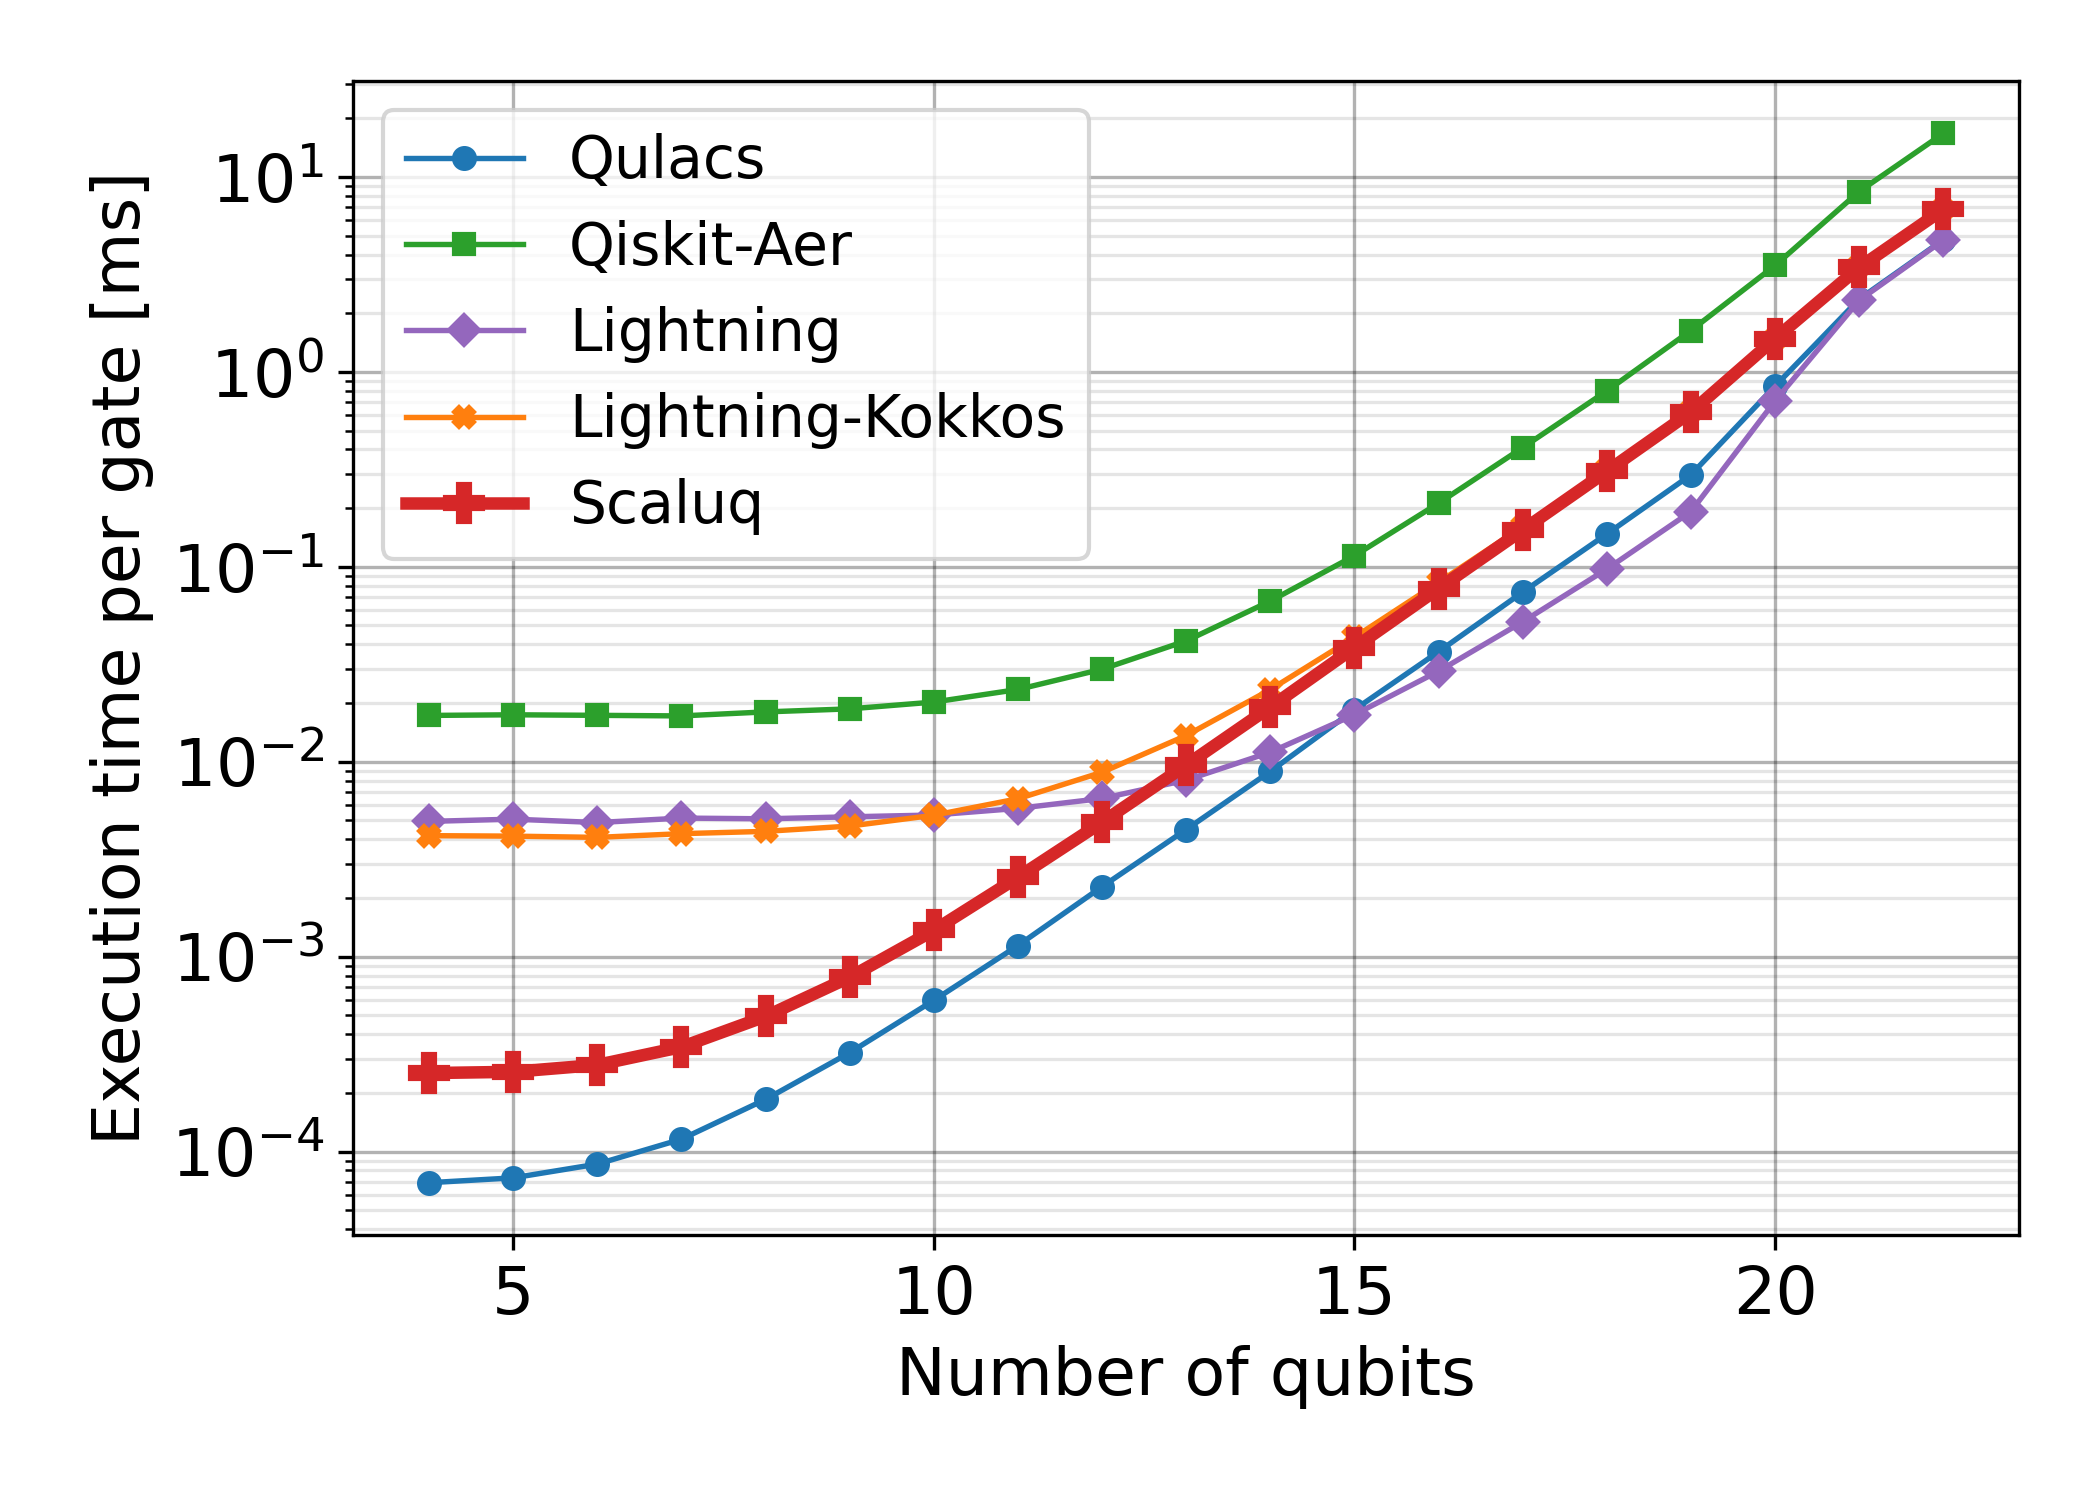
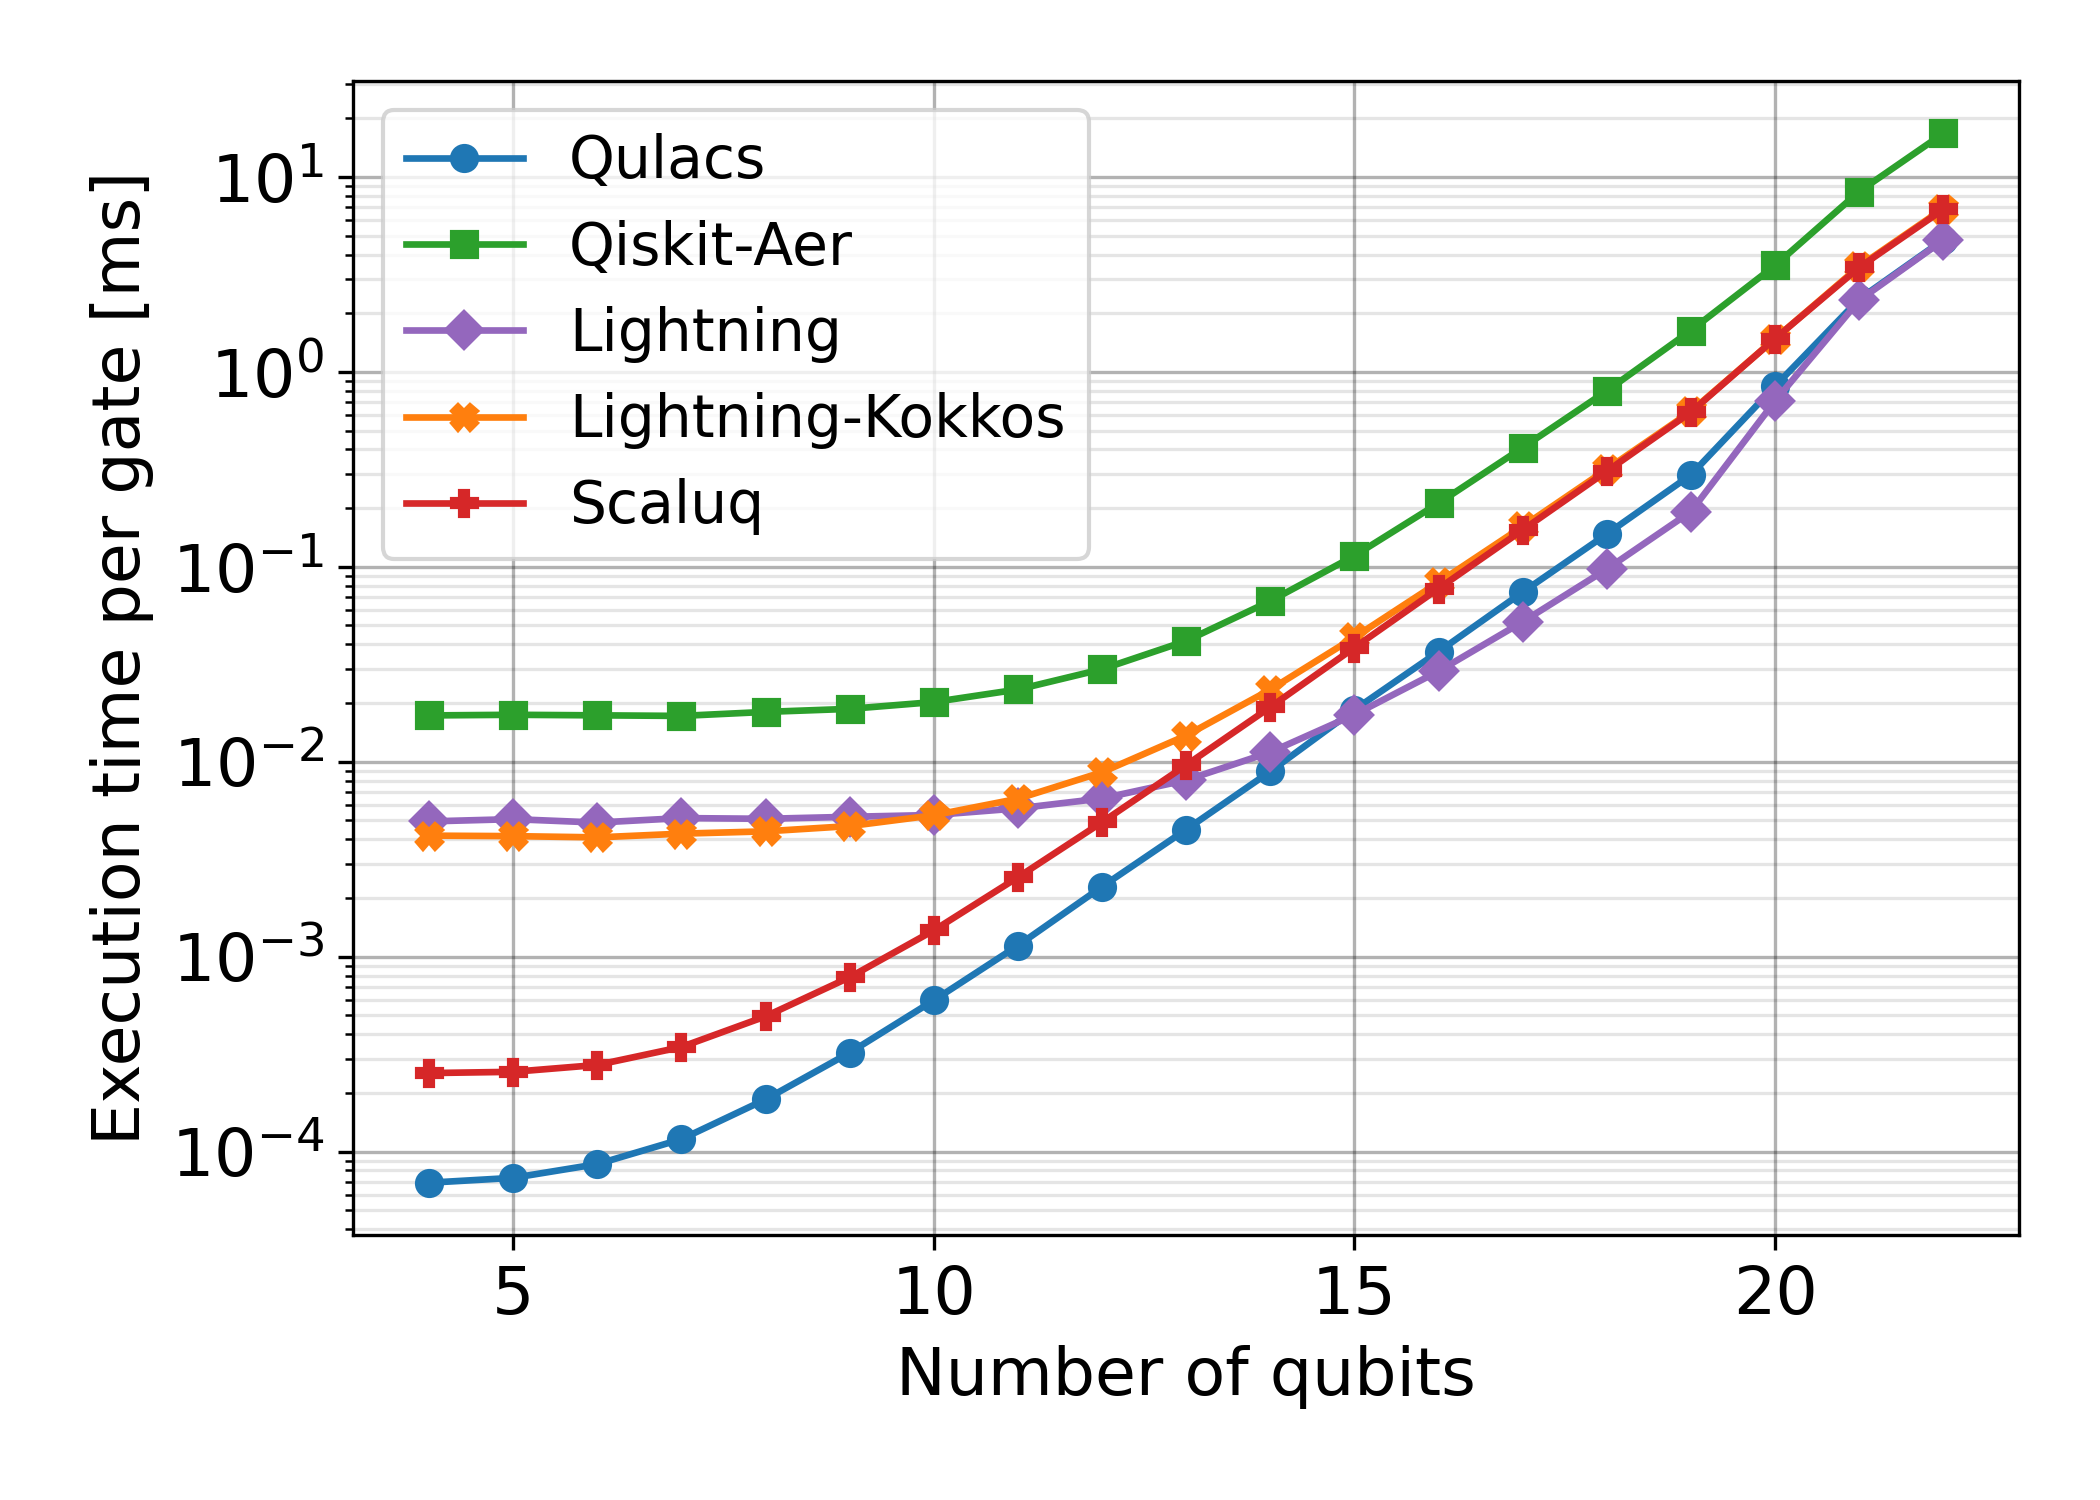
Tone down Scaluq emphasis in CPU plots
Use uniform line width / marker size for all libraries; keep the Scaluq
curve only drawn on top (zorder) instead of a thicker red line.

diff --git a/benchmark/multiple-gate/multithread/plot.py b/benchmark/multiple-gate/multithread/plot.py
@@ -65,10 +65,9 @@ def plot(dat, group, single):
         cid = libnames.index(base)
         xs = list(sorted(dat_group[name].keys()))
         ys = [dat_group[name][x] for x in xs]
-        emph = base == "Scaluq"  # highlight the proposed library
+        emph = base == "Scaluq"  # draw the proposed library on top, same weight
         plt.plot(xs, ys, label=base, c=colors[cid], marker=markers[cid],
-                 linewidth=3.0 if emph else 1.3,
-                 markersize=9 if emph else 5,
+                 linewidth=1.6, markersize=6,
                  zorder=5 if emph else 3)
 
     plt.yscale("log")
